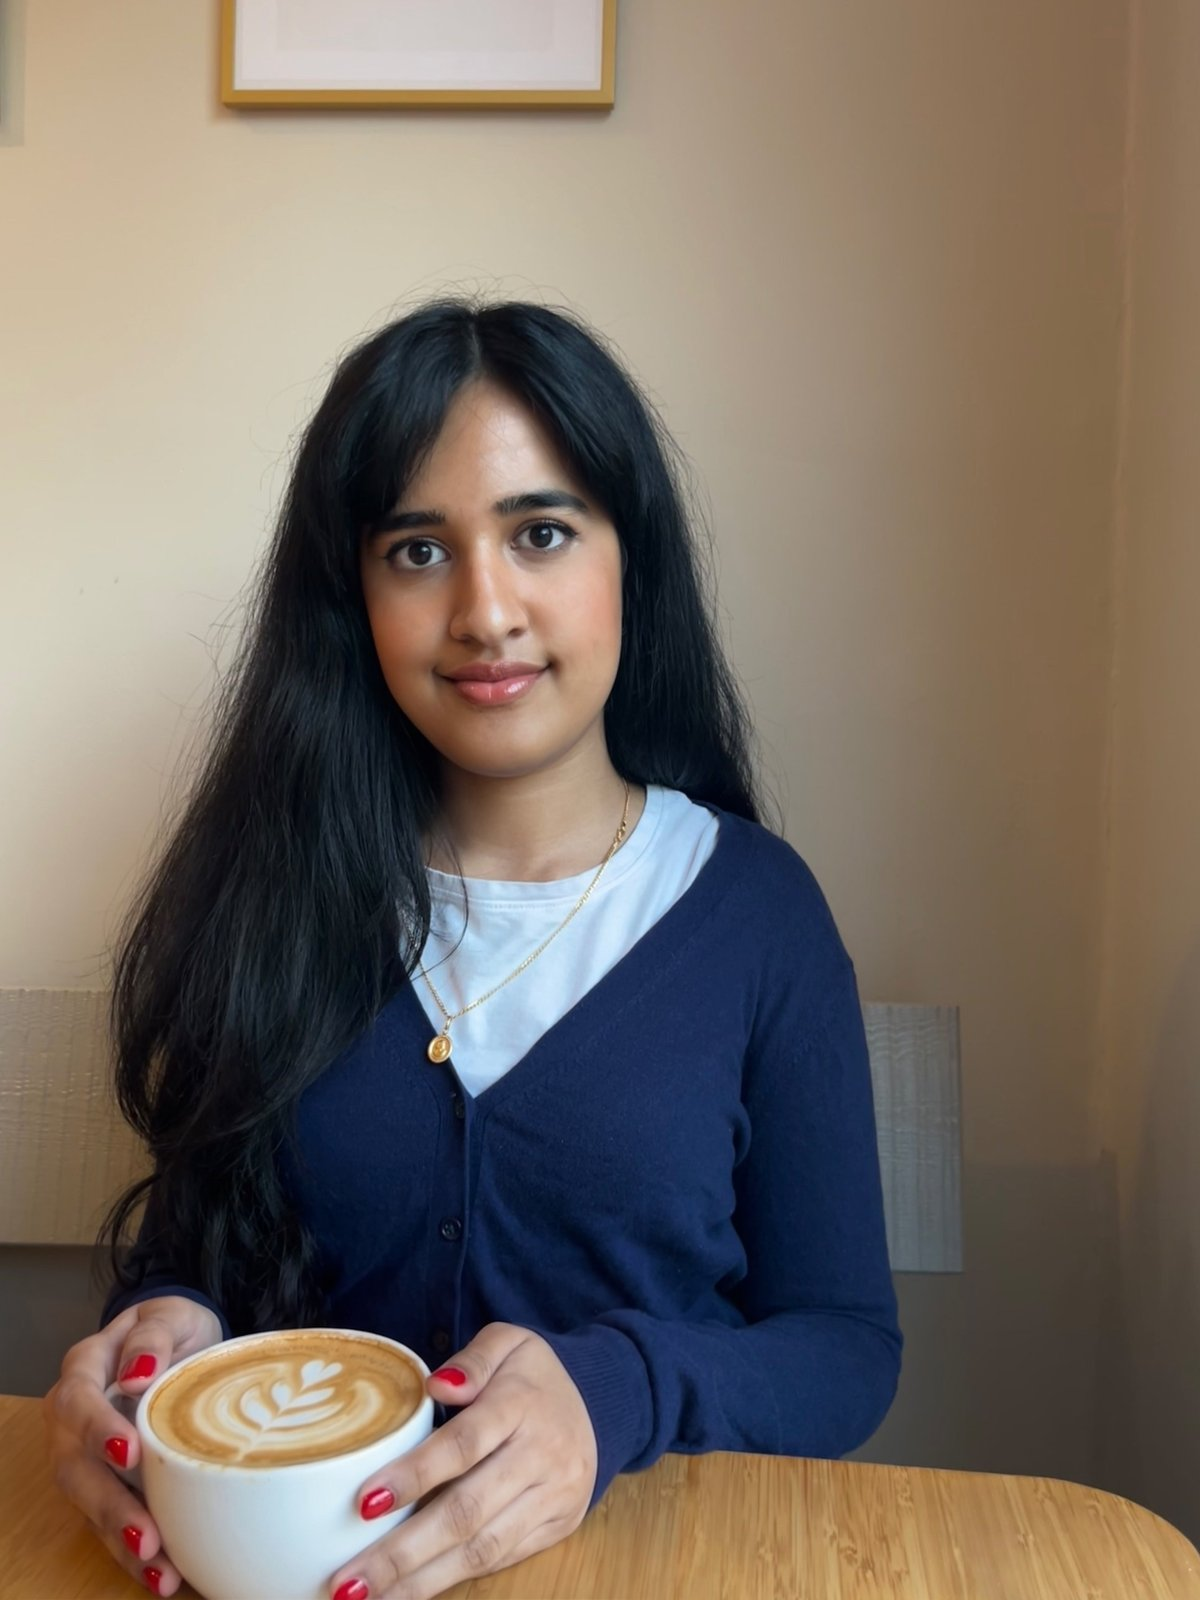
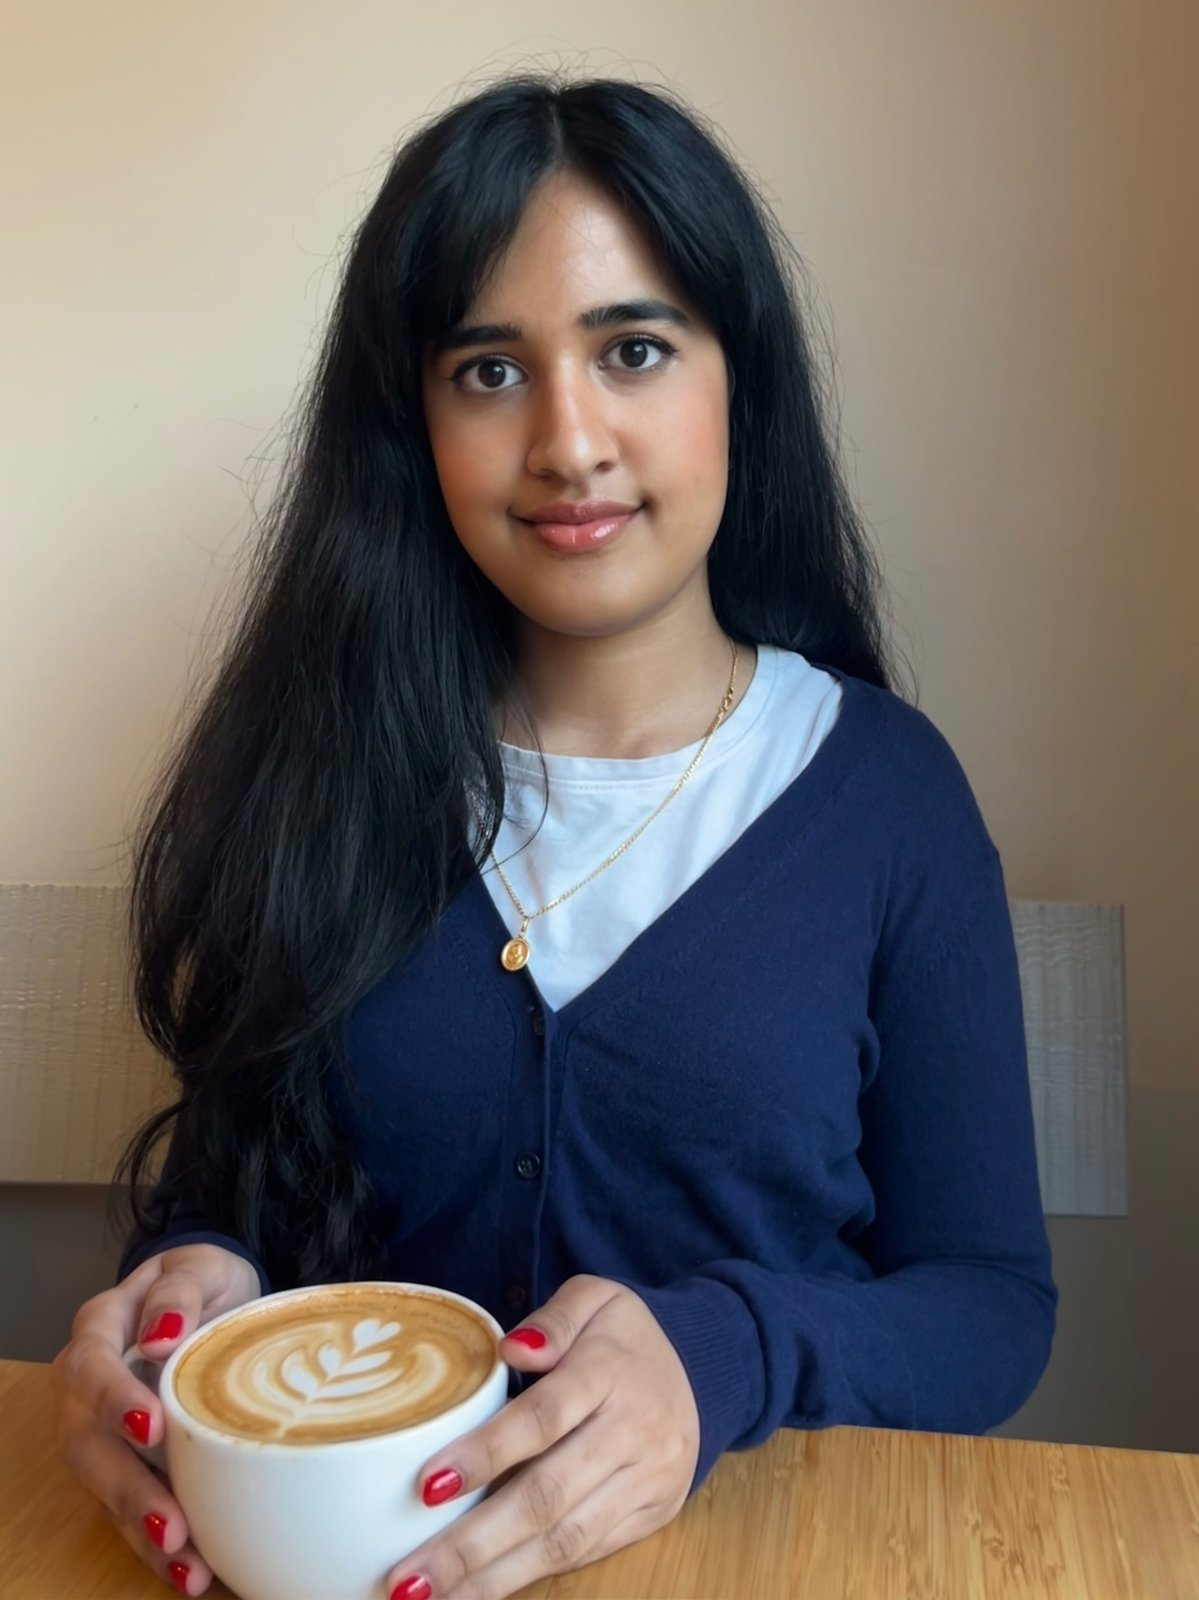
About: crop polaroid photo to centre Camryn
Claude-Session: https://claude.ai/code/session_013t2RT2d3KAJT5VnSKq2hgZ

diff --git a/embeds/polaroid.html b/embeds/polaroid.html
@@ -109,7 +109,7 @@
     <!-- PHOTO: to swap, put a new image in assets/ and change src below -->
     <img
       class="photo"
-      src="../assets/camryn-rozario.jpg"
+      src="../assets/camryn-rozario.jpg?v=2"
       alt="Photo of Camryn"
     />
   </div>
